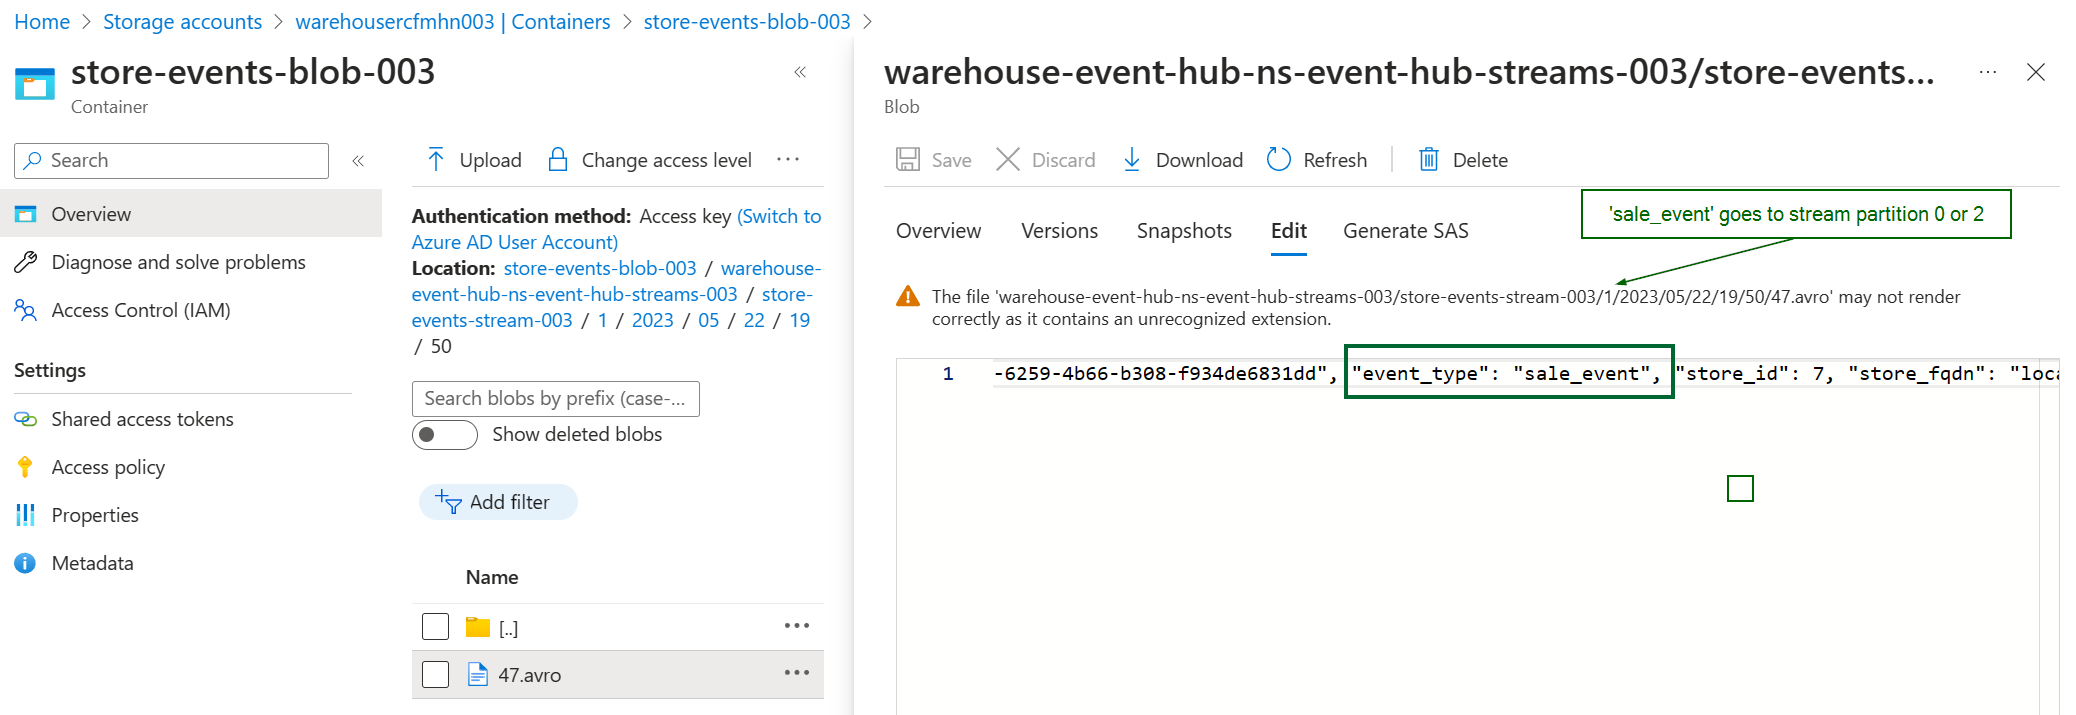
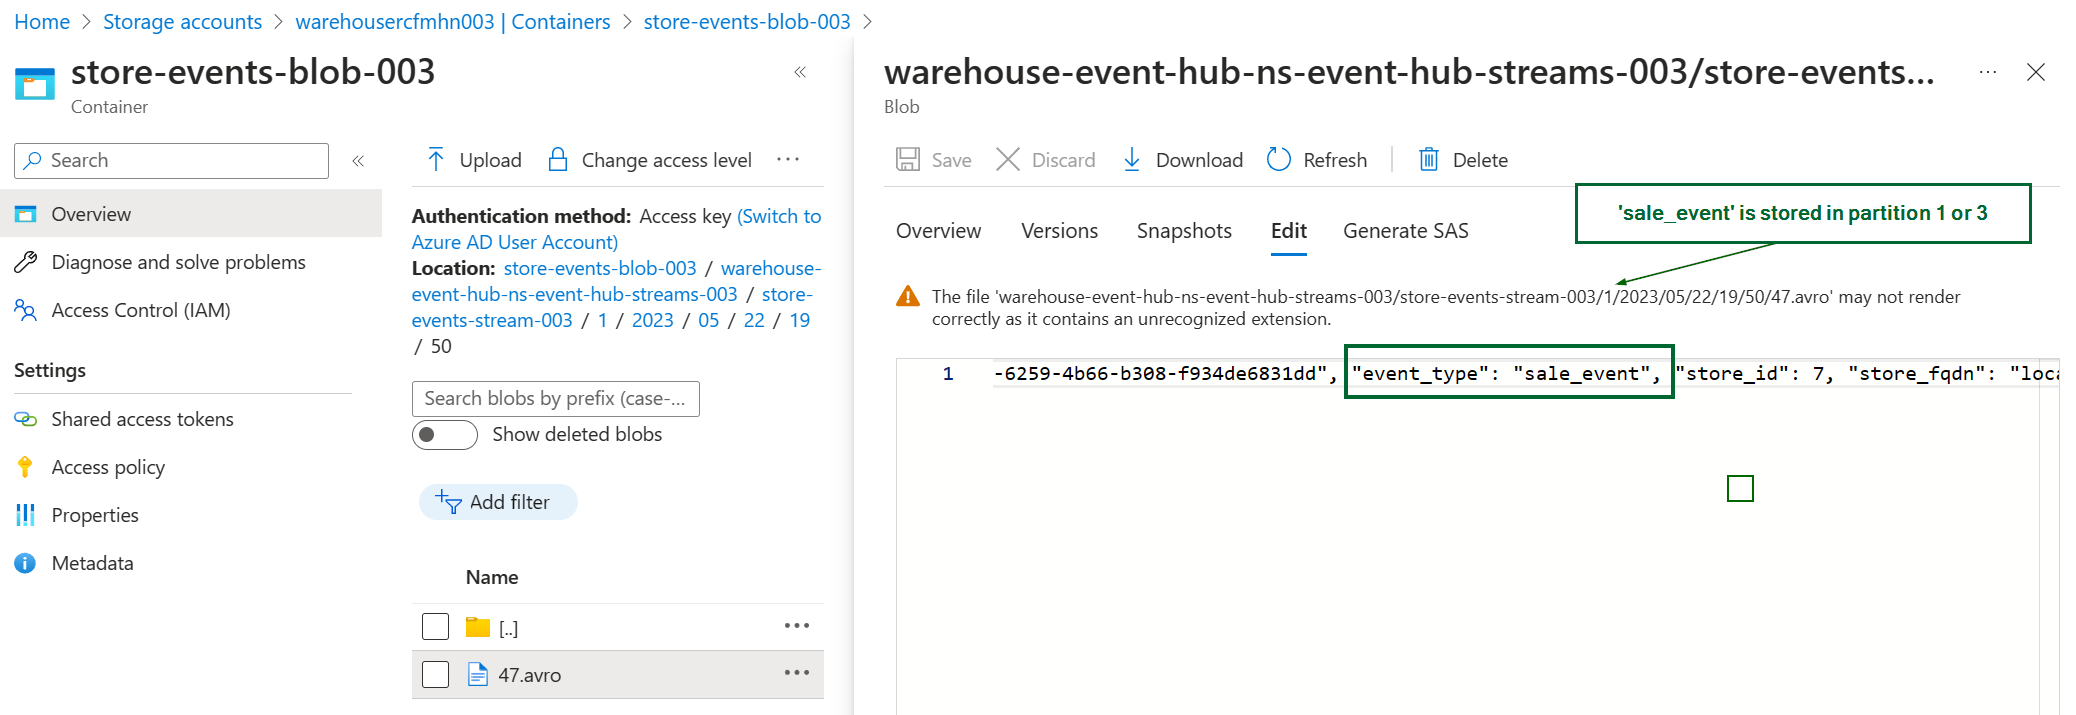
lgtm

Changed region(s): [[0.7399, 0.2462, 0.9865, 0.3385]]

diff --git a/README.MD b/README.MD
@@ -52,7 +52,7 @@ The consumer function utilizes a subscription trigger on the `sale_events` topic
 
 By leveraging the capabilities of Bicep, all the required resources can be easily provisioned and managed with minimal effort. Bicep simplifies the process of defining and deploying Azure resources, allowing for efficient resource management.
 
-![Miztiik Automation - Event Streaming with Azure Event Hub](images/miztiik_architecture_event_streaming with_azure_event_hub_to_blob_001.png)
+![Miztiik Automation - Event Streaming with Azure Event Hub](images/miztiik_architecture_event_streaming%20with_azure_event_hub_to_blob_001.png)
 
 1. ## 🧰 Prerequisites
 
@@ -65,16 +65,16 @@ By leveraging the capabilities of Bicep, all the required resources can be easil
    - `jq` - [Get help here](https://stedolan.github.io/jq/download/)
    - `bash` or git bash - [Get help here](https://git-scm.com/downloads)
 
-2. ## ⚙ Setting up the environment
+1. ## ⚙ Setting up the environment
 
    - Get the application code
 
      ```bash
-     git clone https://github.com/miztiik/azure-svc-bus-msg-consumer-with-filter.git
-     cd azure-svc-bus-msg-consumer-with-filter
+     git clone https://github.com/miztiik/azure-event-hub-streams.git
+     cd azure-event-hub-streams
      ```
 
-3. ## 🚀 Prepare the local environment
+1. ## 🚀 Prepare the local environment
 
    Ensure you have jq, Azure Cli and bicep working
 
@@ -86,26 +86,26 @@ By leveraging the capabilities of Bicep, all the required resources can be easil
    az account show
     ```
 
-4. ## 🚀 Deploying the Solution
+1. ## 🚀 Deploying the Solution
 
    - **Stack: Main Bicep**
-     We will create the following resoureces
+     We will create the following resources
      - **Storage Accounts** for storing the events
        - General purpose Storage Account - Used by Azure functions to store the function code
        - `warehouse*` -  Azure Function will store the events here
-     - **Servie Bus Namespace**
-       - Service Bus Topic, with following subscriptions
-         - `All Events`
-         - `Inventory_Events`
-         - `Sale_Events`
-         - `Fraud_Events`
+     - **Event Hub Namespace**
+       - Event Hub Stream, with `4` Partitions
+         - Even Partitions - `0` & `2` - `inventory_Event`
+         - Odd Partitions - `1` & `3` - `sale_event`
+         - Event Hub Capture - Enabled
+           - Events will be stored in `warehouse*` storage account.
      - **Managed Identity**
         - This will be used by the Azure Function to interact with the service bus
      - **Python Azure Function**
         - **Producer**: `HTTP` Trigger. Customized to send `count` number of events to the service bus, using parameters passed in the query string. `count` defaults to `10`
-        - **Consumer**: `Service Bus Topic Subscription` Trigger. The trigger uses managed identity to authenticate to the service bus.
-     - **Cosmos DB**
-        - This will be used by the Azure Function to store the events
+     - _Note: There are few additional resources created, but you can ignore them for now, they aren't required for this demo, but be sure to clean them up later_
+
+      Initiate the deployment with the following command,
 
       ```bash
       # make deploy
@@ -114,49 +114,49 @@ By leveraging the capabilities of Bicep, all the required resources can be easil
 
       After successfully deploying the stack, Check the `Resource Groups/Deployments` section for the resources.
 
-5. ## 🔬 Testing the solution
+1. ## 🔬 Testing the solution
 
    - **Trigger the function**
 
       ```bash
-      FUNC_URL="https://svc-bus-msg-filter-store-backend-fn-app-004.azurewebsites.net/api/store-events-producer-fn"
+      FUNC_URL="https://event-hub-streams-store-backend-fn-app-003.azurewebsites.net/api/store-events-producer-fn"
       curl ${FUNC_URL}?count=10
       ```
 
       You should see an output like this,
 
       ```json
-         {
-         "miztiik_event_processed": true,
-         "msg": "Generated 10 messages",
-         "resp": {
-            "status": true,
-            "tot_msgs": 10,
-            "bad_msgs": 2,
-            "sale_evnts": 8,
-            "inventory_evnts": 2,
-            "tot_sales": 507.57
-         },
-         "count": 10,
-         "last_processed_on": "2023-05-21T14:03:45.505416"
-         }
-
+      {
+      "miztiik_event_processed": true,
+      "msg": "Generated 10 messages",
+      "resp": {
+         "status": true,
+         "tot_msgs": 10,
+         "bad_msgs": 1,
+         "sale_evnts": 4,
+         "inventory_evnts": 6,
+         "tot_sales": 507.03000000000003
+      },
+      "count": 10,
+      "last_processed_on": "2023-05-23T08:33:36.642732"
+      }
       ```
 
-      Our function has produced `10` messages with `8` of them were `sale_events` and `2` of them were `inventory_events`. We can find the same being processed by sale_events and inventory_events subscriptions. Likewise, we see `8` records blob and cosmos.
+      This run of function has produced `10` messages with `4` of them were `sale_events` and `6` of them were `inventory_events`. _I have ran the producer function multiple times, so the numbers may vary for you_. You can also see the that `inventory_event` is stored in blob prefix of either `0` or `2` and `sale_event` is stored in blob prefix of either `1` or `3`. This is because we have configured the event hub to use `4` partitions and we have configured the event hub to use `2` partitions for each event type.
 
+      ![Miztiik Automation - Event Streaming with Azure Event Hub](images/miztiik_architecture_event_streaming%20with_azure_event_hub_to_blob_002.png)
+      ![Miztiik Automation - Event Streaming with Azure Event Hub](images/miztiik_architecture_event_streaming%20with_azure_event_hub_to_blob_003.png)
+      ![Miztiik Automation - Event Streaming with Azure Event Hub](images/miztiik_architecture_event_streaming%20with_azure_event_hub_to_blob_004.png)
 
-      ![Miztiik Automation - Event Streaming with Azure Event Hub](images/miztiik_architecture_event_streaming with_azure_event_hub_to_blob_002)
+1. ## 📒 Conclusion
 
-6. ## 📒 Conclusion
-
-   In this demonstration, we have showcased the utilization of Azure Functions to send messages to Azure Service Bus and leverage message filters to perform actions on specific messages. This approach allows for efficient message processing and enables targeted handling based on specific criteria.
+   In this demonstration, we have showcased how a event producer can stream events Azure Event Hub, capture and store the events in Blob Storage. This approach allows for efficient event processing and enables targeted handling based on specific criteria for downstream processing.
   
-7. ## 🧹 CleanUp
+1. ## 🧹 CleanUp
 
    If you want to destroy all the resources created by the stack, Execute the below command to delete the stack, or _you can delete the stack from console as well_
 
-   - Resources created during [Deploying The Application](#-deploying-the-application)
+   - Resources created during [Deploying The Solution](#-deploying-the-solution)
    - _Any other custom resources, you have created for this demo_
 
    ```bash
@@ -184,7 +184,7 @@ Thank you for your interest in contributing to our project. Whether it is a bug 
 
 1. [Azure Docs - Event Hub][1]
 1. [Azure Docs - Event Hub - Streaming Event Capture][2]
-1. [Azure Docs - Service Bus Topic Filter Limitations][2]
+1. [Azure Docs - Event Hub Python Samples][2]
 1. [Azure Docs - Managed Identity][8]
 1. [Azure Docs - Managed Identity Caching][9]
 1. [Gitub Issue - Default Credential Troubleshooting][10]
@@ -192,6 +192,7 @@ Thank you for your interest in contributing to our project. Whether it is a bug 
 
 [1]: https://learn.microsoft.com/en-us/azure/event-hubs
 [2]: https://learn.microsoft.com/en-us/azure/event-hubs/event-hubs-capture-overview
+[3]: https://github.com/Azure/azure-sdk-for-python/blob/main/sdk/eventhub/azure-eventhub/samples
 [8]: https://learn.microsoft.com/en-us/azure/active-directory/managed-identities-azure-resources/overview
 [9]: https://learn.microsoft.com/en-us/azure/app-service/overview-managed-identity?tabs=portal%2Chttp#configure-target-resource
 [10]: https://github.com/microsoft/azure-container-apps/issues/442
